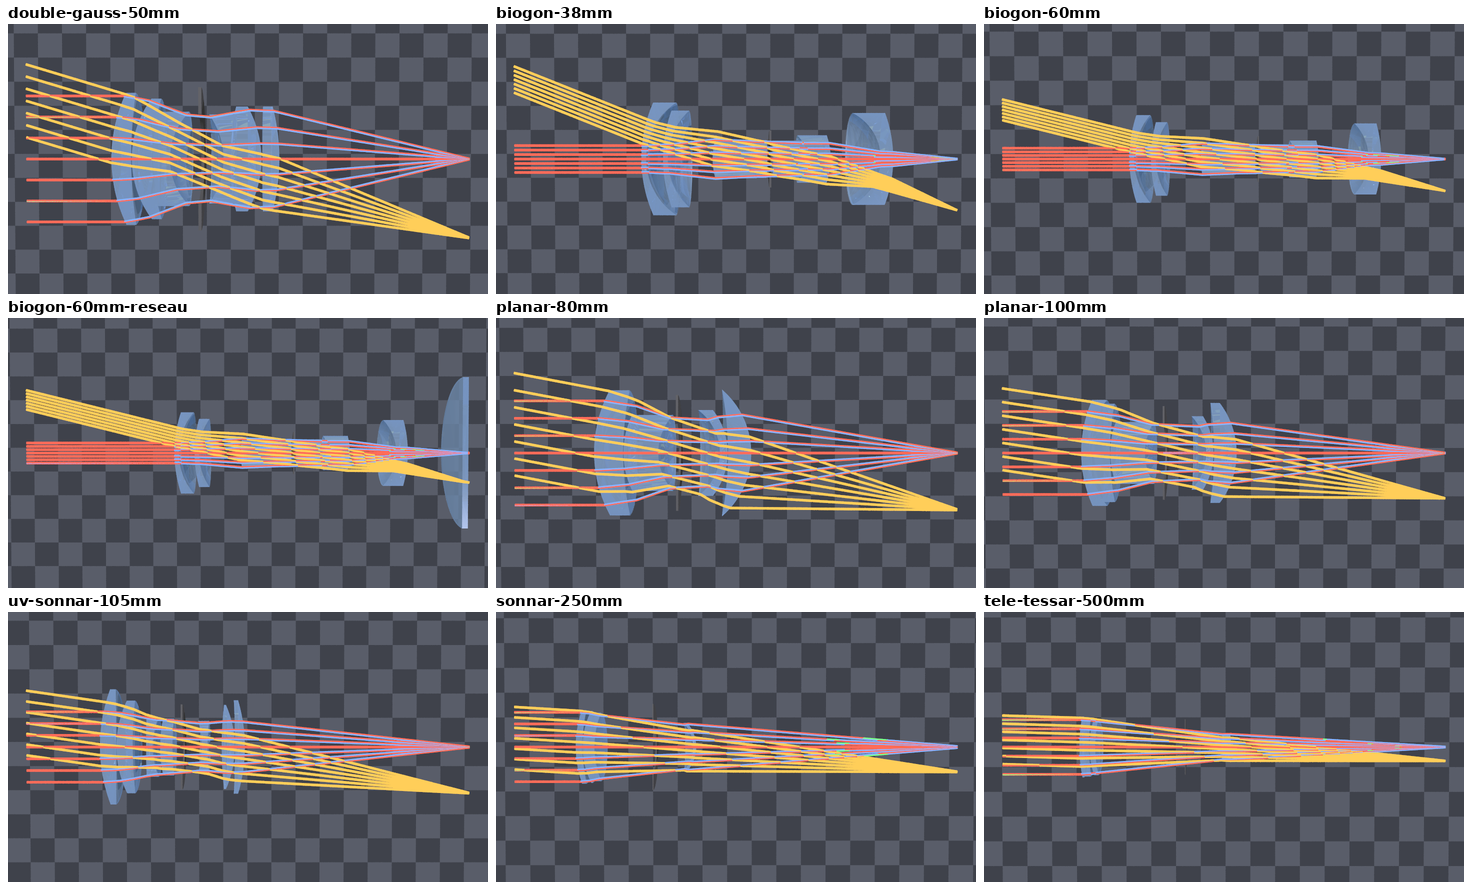
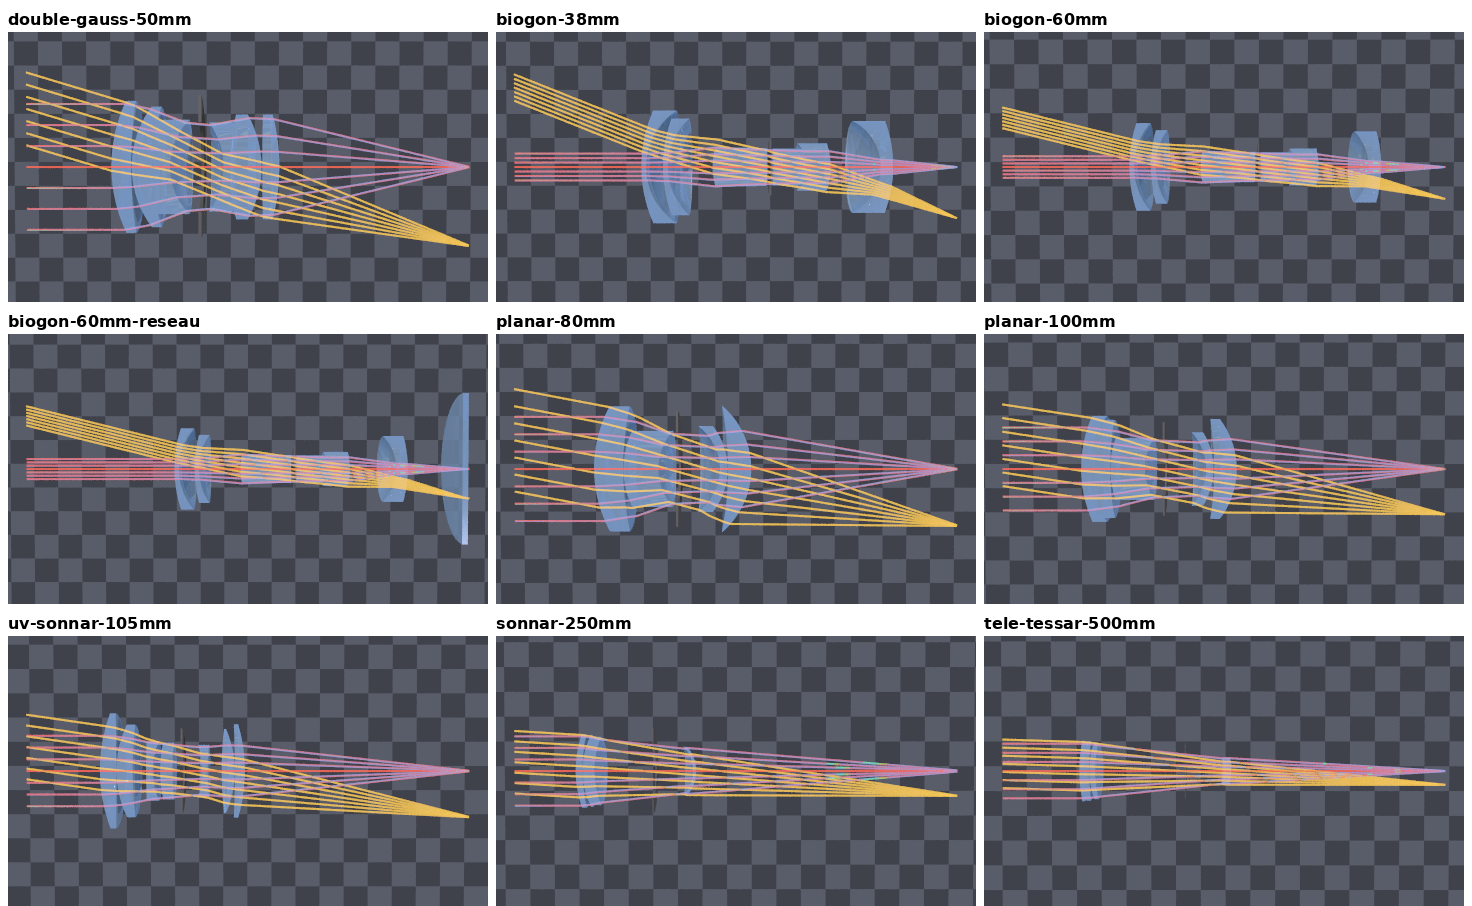
WIP 0.21.3: format_test checks for parts, materialMap, creaseAngle, nodeFrame, uv sampling, include, fanOpacity; lens fans at half brightness

diff --git a/tests/format_test.cpp b/tests/format_test.cpp
@@ -5671,6 +5671,12 @@ static void LensElementsChecks( void )
     ExpectError( Minimal( "{ \"type\": \"sphere\", \"center\": [0, 0, 0], \"radius\": 1 }",
                           "{ \"type\": \"lensElements\", \"prescription\": \"biogon-38mm\", \"scale\": 0 }" ), BAD_FILE, "scale must be more than 0" );
     ExpectError( Minimal( "{ \"type\": \"sphere\", \"center\": [0, 0, 0], \"radius\": 1 }",
+                          "{ \"type\": \"lensElements\", \"prescription\": \"biogon-38mm\", \"fanOpacity\": 0 }" ), BAD_FILE,
+                 "fanOpacity must be more than 0 and at most 1" );
+    ExpectError( Minimal( "{ \"type\": \"sphere\", \"center\": [0, 0, 0], \"radius\": 1 }",
+                          "{ \"type\": \"lensElements\", \"prescription\": \"biogon-38mm\", \"fanOpacity\": 1.5 }" ), BAD_FILE,
+                 "fanOpacity must be more than 0 and at most 1" );
+    ExpectError( Minimal( "{ \"type\": \"sphere\", \"center\": [0, 0, 0], \"radius\": 1 }",
                           "{ \"type\": \"lensElements\", \"prescription\": \"biogon-38mm\", \"fields\": [1.5] }" ), BAD_FILE, "must be from 0 to 1" );
     ExpectError( Minimal( "{ \"type\": \"sphere\", \"center\": [0, 0, 0], \"radius\": 1 }",
                           "{ \"type\": \"lensElements\", \"prescription\": \"biogon-38mm\", \"rays\": 0 }" ), BAD_FILE, "rays" );
@@ -6855,6 +6861,259 @@ static void ImageFormatChecks( const char *strScenes )
     }
 }
 
+    // 2026-alpha-0.21.3: model parts and materialMap, creaseAngle, nodeFrame,
+    // faceColors' "sample": "uv", object names, --save-object and include,
+    // and the LM-5 Eagle model's parts.
+static void ModelPartChecks( const char *strScenes, const char *strDir )
+{
+    std::string             strModels = std::string( strScenes ) + "/models/";
+    RayJson::CBaseDirectory oBase( strScenes );
+    std::string             strError;
+
+    auto Mesh = [ & ]( const std::string &strJson, BOOL &bRead ) -> std::unique_ptr<CMesh>
+    {
+        std::unique_ptr<IASLib::CJsonNode> pNode( RayJson::Parse( strJson ) );
+        std::unique_ptr<CMesh>             pMesh( new CMesh );
+
+        bRead = ( pNode && pMesh->FromJson( *pNode ) ) ? TRUE : FALSE;
+        if ( ! bRead )
+        {
+            strError = RayJson::GetError();
+            RayJson::ClearError();
+        }
+        return pMesh;
+    };
+    BOOL bRead = FALSE;
+
+        // Parts: each face's glTF material, by name.
+    {
+        ModelFile::SModel oModel;
+        std::string       strData = ReadFile( strModels + "apollo/apollo_lunar_module.glb" );
+
+        Check( ModelFile::ReadGltf( strData, NULL, "", "", oModel, strError ) == TRUE, "NASA's LM reads" );
+        Check( oModel.anFacePart.size() == oModel.anFaces.size() / 3 && oModel.astrParts.size() == 12,
+               "each face of the LM has its part, one of its 12 materials" );
+        Check( std::find( oModel.astrParts.begin(), oModel.astrParts.end(), "blinn5SG.002" ) != oModel.astrParts.end(),
+               "the parts are named by the glTF materials" );
+        Check( ! oModel.apImages.empty() && oModel.anFaceImage.size() == oModel.anFaces.size() / 3 &&
+               oModel.anFaceImageUVs.size() == oModel.anFaces.size() * 2, "the base color images and each face's image coordinates are kept" );
+    }
+
+        // A materialMap gives a part its own materials and bump; a name the
+        // model doesn't have is refused, listing the parts.
+    {
+        std::unique_ptr<CMesh> pMesh = Mesh( "{\"file\": \"models/apollo/apollo_lunar_module.glb\", \"materialMap\": {"
+                                             "\"blinn5SG.002\": {\"materials\": [{\"type\": \"diffuse\", \"influence\": 1, \"color\": [1, 0, 0]}],"
+                                             " \"bump\": {\"texture\": {\"type\": \"noise\"}}}}}", bRead );
+        const CMesh::SGeometry *pGeometry = pMesh->GetGeometry();
+        int                     nBell = -1, nOther = -1, nPart = -1;
+        std::vector<std::string> astrParts = pMesh->GetPartNames();
+
+        Check( bRead == TRUE, "a mesh with a materialMap reads" );
+        for ( size_t i = 0; i < astrParts.size(); i++ )
+        {
+            if ( astrParts[ i ] == "blinn5SG.002" )
+                nPart = (int)i;
+        }
+        for ( size_t i = 0; pGeometry && i < pGeometry->anFacePart.size(); i++ )
+        {
+            if ( pGeometry->anFacePart[ i ] == nPart && nBell < 0 )
+                nBell = (int)i;
+            if ( pGeometry->anFacePart[ i ] != nPart && nOther < 0 )
+                nOther = (int)i;
+        }
+        Check( nBell >= 0 && nOther >= 0 && pMesh->FaceHasBump( nBell ) && ! pMesh->FaceHasBump( nOther ),
+               "a part's faces take its entry's bump, the others the mesh's (none)" );
+
+        std::unique_ptr<IASLib::CObjectNode> pOut( new IASLib::CObjectNode );
+
+        pMesh->ToJson( *pOut );
+        Check( pOut->get( "materialMap" ) && pOut->get( "materialMap" )->get( "blinn5SG.002" ), "the materialMap is saved" );
+
+        Mesh( "{\"file\": \"models/apollo/apollo_lunar_module.glb\", \"materialMap\": {\"hull\": {\"materials\": []}}}", bRead );
+        Check( bRead == FALSE && strError.find( "has no part named \"hull\"" ) != std::string::npos &&
+               strError.find( "blinn5SG.002" ) != std::string::npos, "a part the model doesn't have is refused, naming its parts" );
+        Mesh( "{\"vertices\": [[0,0,0],[1,0,0],[0,1,0]], \"faces\": [[0,1,2]], \"materialMap\": {}}", bRead );
+        Check( bRead == FALSE, "a materialMap is for a model file" );
+        Mesh( "{\"file\": \"models/apollo/apollo_lunar_module.glb\", \"materialMap\": {\"blinn5SG.002\": {\"bump\": {}}}}", bRead );
+        Check( bRead == FALSE && strError.find( "needs \"materials\"" ) != std::string::npos, "an entry needs materials" );
+    }
+
+        // creaseAngle: normals worked out from the faces. A cube's corners
+        // stay sharp under 90 degrees and round past it.
+    {
+        std::unique_ptr<CMesh> pSharp = Mesh( "{\"file\": \"models/color_cube.stl\", \"smooth\": true, \"creaseAngle\": 30}", bRead );
+        BOOL                   bSharp = bRead;
+        std::unique_ptr<CMesh> pRound = Mesh( "{\"file\": \"models/color_cube.stl\", \"smooth\": true, \"creaseAngle\": 100}", bRead );
+        BOOL                   bAllFace = TRUE, bAnyBent = FALSE;
+
+        Check( bSharp && bRead, "creaseAngle reads" );
+        const CMesh::SGeometry &oSharp = *pSharp->GetGeometry();
+        const CMesh::SGeometry &oRound = *pRound->GetGeometry();
+
+        for ( int f = 0; f < oSharp.FaceCount(); f++ )
+        {
+            CVector oFace = oSharp.aoFaceNormals[ (size_t)f ];
+
+            for ( int c = 0; c < 3; c++ )
+            {
+                CVector oN = oSharp.aoVertexNormals[ (size_t)oSharp.anKept[ (size_t)f * 3 + c ] ];
+
+                if ( fabs( oN.Dot( oFace ) - 1.0 ) > 1e-9 )
+                    bAllFace = FALSE;
+                oN = oRound.aoVertexNormals[ (size_t)oRound.anKept[ (size_t)f * 3 + c ] ];
+                oFace = oRound.aoFaceNormals[ (size_t)f ];
+                if ( oN.Dot( oFace ) < 0.9 )
+                    bAnyBent = TRUE;
+                oFace = oSharp.aoFaceNormals[ (size_t)f ];
+            }
+        }
+        Check( bAllFace, "under the crease angle a cube's corners keep their faces' normals" );
+        Check( bAnyBent, "past it they are blended with the faces around them" );
+        Mesh( "{\"file\": \"models/color_cube.stl\", \"creaseAngle\": 200}", bRead );
+        Check( bRead == FALSE, "a creaseAngle past 180 is refused" );
+    }
+
+        // nodeFrame: a picked node in its own frame, or where its parents put it.
+    {
+        std::unique_ptr<CMesh> pLocal = Mesh( "{\"file\": \"models/chess/chess_set_1k.gltf\", \"node\": \"piece_rook_white_01\"}", bRead );
+        BOOL                   bLocal = bRead;
+        std::unique_ptr<CMesh> pWorld = Mesh( "{\"file\": \"models/chess/chess_set_1k.gltf\", \"node\": \"piece_rook_white_01\", "
+                                              "\"nodeFrame\": \"world\"}", bRead );
+
+        Check( bLocal && bRead, "nodeFrame reads" );
+        CVector oLocal = pLocal->GetGeometry()->oMinimum, oWorld = pWorld->GetGeometry()->oMinimum;
+
+            // The rook's node moves it by (0.2026, 0.0174, -0.2026); glTF's z
+            // is turned round in Ray.
+        Check( fabs( ( oWorld.GetX() - oLocal.GetX() ) - 0.20260828733444214 ) < 1e-6 &&
+               fabs( ( oWorld.GetY() - oLocal.GetY() ) - 0.017392655834555626 ) < 1e-6 &&
+               fabs( ( oWorld.GetZ() - oLocal.GetZ() ) - 0.20260828733444214 ) < 1e-6,
+               "\"nodeFrame\": \"world\" places a node by its own transform" );
+        Mesh( "{\"file\": \"models/chess/chess_set_1k.gltf\", \"nodeFrame\": \"world\"}", bRead );
+        Check( bRead == FALSE, "nodeFrame needs a node" );
+    }
+
+        // faceColors' "sample": "uv": a face of NASA's LM that has a base
+        // color image samples it through the face's coordinates.
+    {
+        std::unique_ptr<CMesh>  pMesh = Mesh( "{\"file\": \"models/apollo/apollo_lunar_module.glb\"}", bRead );
+        const CMesh::SGeometry &oGeometry = *pMesh->GetGeometry();
+        CRay                    oRay;
+        CVector                 oHit;
+        BOOL                    bFlip = FALSE;
+        int                     nFace = -1;
+
+        for ( size_t i = 0; i < oGeometry.anFaceImage.size() && nFace < 0; i++ )
+        {
+            if ( oGeometry.anFaceImage[ i ] >= 0 )
+                nFace = (int)i;
+        }
+        Check( nFace >= 0, "some of the LM's faces have an image" );
+        if ( nFace < 0 )
+            return;
+
+        CVector oA = oGeometry.aoVertices[ (size_t)oGeometry.anKept[ (size_t)nFace * 3 ] ];
+        CVector oB = oGeometry.aoVertices[ (size_t)oGeometry.anKept[ (size_t)nFace * 3 + 1 ] ];
+        CVector oC = oGeometry.aoVertices[ (size_t)oGeometry.anKept[ (size_t)nFace * 3 + 2 ] ];
+        CVector oN = oGeometry.aoFaceNormals[ (size_t)nFace ];
+        FLT     nX = ( oA.GetX() + oB.GetX() + oC.GetX() ) / 3.0, nY = ( oA.GetY() + oB.GetY() + oC.GetY() ) / 3.0;
+        FLT     nZ = ( oA.GetZ() + oB.GetZ() + oC.GetZ() ) / 3.0;
+
+            // From just off the face's middle, straight at it.
+        oRay.Set( nX + oN.GetX() * 1e-4, nY + oN.GetY() * 1e-4, nZ + oN.GetZ() * 1e-4, -oN.GetX(), -oN.GetY(), -oN.GetZ(), 1e100, 1.0, 0, 0 );
+        Check( pMesh->Intersect( oRay, oHit ) == TRUE, "a ray at that face hits it" );
+
+        CObjects *pFace = pMesh->HitPart( bFlip );
+        CColor    oColor;
+
+        Check( pFace && pFace->SurfaceImageColor( oHit, oColor ) && oColor.GetR() >= 0.0 && oColor.GetR() <= 1.0,
+               "a face with an image samples it at the hit" );
+
+        std::unique_ptr<IASLib::CJsonNode> pNode( RayJson::Parse( "{\"type\": \"faceColors\", \"sample\": \"uv\"}" ) );
+        std::unique_ptr<CTexture>          pTexture( CTexture::Read( *pNode ) );
+        STexturePoint                      oAt;
+
+        pFace->TextureAt( oHit, oAt );
+        Check( pTexture && pTexture->ColorAt( oAt ).GetR() == oColor.GetR(), "faceColors with \"sample\": \"uv\" uses it" );
+        pNode.reset( RayJson::Parse( "{\"type\": \"faceColors\", \"sample\": \"both\"}" ) );
+        pTexture.reset( CTexture::Read( *pNode ) );
+        RayJson::ClearError();
+        Check( ! pTexture, "an unknown sample is refused" );
+    }
+
+        // Object names, --save-object and include.
+    {
+        CScene      oScene;
+        std::string strPrefab = std::string( strDir ) + "/prefab_cube.ray";
+        std::string strUse = std::string( strDir ) + "/use_prefab.ray";
+
+        Check( oScene.Load( ( std::string( strScenes ) + "/models_test.ray" ).c_str() ) == 0, "models_test loads" );
+        Check( oScene.FindObject( "2" ) == 1 && oScene.FindObject( "9" ) == -1, "an object is found by its number" );
+        Check( oScene.SaveObject( 1, strPrefab.c_str(), TRUE ) == 0, "one object saves as a scene of its own" );
+
+        CScene oPrefab;
+
+        Check( oPrefab.Load( strPrefab.c_str() ) == 0 && oPrefab.GetObjectCount() == 1, "the prefab holds just that object" );
+
+        FILE *pFile = fopen( strUse.c_str(), "wb" );
+
+        fputs( "{\"format\": \"Ray scene\", \"version\": 3, \"camera\": {\"position\": [0, 2, -10], \"lookAt\": [0, 0, 0]},"
+               " \"objects\": [{\"type\": \"include\", \"name\": \"cubes\", \"file\": \"prefab_cube.ray\", \"position\": [3, 0, 0]}],"
+               " \"lights\": []}", pFile );
+        fclose( pFile );
+
+        CScene oUse;
+
+        Check( oUse.Load( strUse.c_str() ) == 0 && oUse.GetObjectCount() == 2, "an include brings its object in after it" );
+        if ( oUse.GetObjectCount() == 2 )
+        {
+            CMesh  *pOriginal = dynamic_cast<CMesh *>( oPrefab.GetObjectAt( 0 ) );
+            CMesh  *pPlaced = dynamic_cast<CMesh *>( oUse.GetObjectAt( 1 ) );
+
+            Check( pOriginal && pPlaced && fabs( CVector( pPlaced->GetGeometry()->oMinimum ).GetX() - CVector( pOriginal->GetGeometry()->oMinimum ).GetX() - 3.0 ) < 1e-9,
+                   "the include's position moves what it brings in" );
+            Check( oUse.GetObjectAt( 0 )->GetName() == "cubes" && oUse.FindObject( "cubes" ) == 0, "an object keeps its name" );
+            Check( oUse.SaveObject( 1, strPrefab.c_str(), TRUE ) != 0, "an included object can't be saved alone" );
+        }
+
+        std::string strSaved = oUse.ToJson();
+
+        Check( strSaved.find( "\"include\"" ) != std::string::npos && strSaved.find( "color_cube" ) == std::string::npos &&
+               strSaved.find( "\"name\": \"cubes\"" ) != std::string::npos, "the scene saves the include, not what it brought in" );
+
+        std::string strTask;
+        {
+            RayJson::CEmbedData oEmbed;
+
+            strTask = oUse.ToJson( TRUE );
+        }
+        CScene oTask;
+
+        Check( oTask.FromJson( strTask ) == 0 && oTask.GetObjectCount() == 2, "a task's copy carries the included objects inline" );
+        Check( strTask.find( "\"objects\":[{\"type\":\"mesh\"" ) != std::string::npos, "a task's copy holds the mesh itself" );
+    }
+
+        // The LM-5 Eagle: NASA's model, its parts named.
+    {
+        ModelFile::SModel oModel;
+        std::string       strData = ReadFile( strModels + "apollo/lm5_eagle.glb" );
+        const char       *astrNames[] = { "kapton_blanket", "kapton_gold", "silver_foil", "kapton_mesa", "black_blanket", "dps_bell",
+                                          "porch_aluminum", "inconel_dark", "white_paint", "al2024_anodized", "al5056_anodized",
+                                          "al_olive", "pyromark_black", "window_quartz" };
+        BOOL              bAll = TRUE;
+
+        Check( ModelFile::ReadGltf( strData, NULL, "", "", oModel, strError ) == TRUE, "lm5_eagle.glb reads" );
+        for ( const char *strName : astrNames )
+        {
+            if ( std::find( oModel.astrParts.begin(), oModel.astrParts.end(), strName ) == oModel.astrParts.end() )
+                bAll = FALSE;
+        }
+        Check( bAll && oModel.astrParts.size() == sizeof( astrNames ) / sizeof( astrNames[ 0 ] ), "every Eagle part is there by name" );
+        Check( oModel.aoNormals.size() == oModel.aoVertices.size(), "the Eagle carries its worked-out normals" );
+    }
+}
+
 int main( int argc, char **argv )
 {
     if ( argc >= 4 && strcmp( argv[ 1 ], "--engines" ) == 0 )
@@ -6869,6 +7128,7 @@ int main( int argc, char **argv )
         SceneTreeChecks( argv[ 2 ] );
         LensTableChecks( argv[ 2 ] );
         ModelFileChecks( argv[ 2 ], argv[ 3 ] );
+        ModelPartChecks( argv[ 2 ], argv[ 3 ] );
         DracoChecks( argv[ 2 ] );
         BlendChecks( argv[ 2 ] );
         TextChecks( argv[ 2 ] );

diff --git a/core/src/LensElements.cpp b/core/src/LensElements.cpp
@@ -73,6 +73,7 @@ CLensElements::CLensElements( void ) :
     m_bFans( TRUE ),
     m_nRays( 7 ),
     m_nTubeRadius( 0.25 ),
+    m_nFanOpacity( 0.5 ),
     m_nLead( 0.0 ),
     m_nSensorWidth( 0.0 ),
     m_nElements( 0 ),
@@ -342,11 +343,17 @@ BOOL CLensElements::Build( std::string &strError )
                     CVector        oColor( aoColors[ nColor ] );
                     std::string    strColor = Rgb( oColor.GetX(), oColor.GetY(), oColor.GetZ() );
 
+                    std::string strMaterials = "[{\"type\": \"ambient\", \"influence\": " + Number( m_nFanOpacity ) +
+                                               ", \"color\": " + strColor + "}";
+
+                    if ( m_nFanOpacity < 1.0 )
+                        strMaterials += ", {\"type\": \"transparent\", \"influence\": " + Number( 1.0 - m_nFanOpacity ) +
+                                        ", \"color\": [1, 1, 1], \"indexOfRefraction\": 1}";
+                    strMaterials += "]";
                     astrParts.push_back( "{\"type\": \"sweep\", \"path\": [" + strPath + "], \"radius\": " +
                                          Number( m_nTubeRadius * m_nScale ) +
                                          ", \"segments\": 8, \"smooth\": false, \"capped\": true, \"color\": " + strColor +
-                                         ", \"materials\": [{\"type\": \"ambient\", \"influence\": 1, \"color\": " + strColor +
-                                         "}]}" );
+                                         ", \"materials\": " + strMaterials + "}" );
                     m_aaoRayPaths.push_back( aoPath );
                     m_nRayCount++;
                 }
@@ -526,6 +533,7 @@ void CLensElements::ToJson( IASLib::CObjectNode &oNode )
     for ( size_t nIndex = 0; nIndex < m_anFields.size(); nIndex++ )
         pFields->add( (double)m_anFields[ nIndex ] );
     RayJson::PutNumber( oNode, "tubeRadius", m_nTubeRadius );
+    RayJson::PutNumber( oNode, "fanOpacity", m_nFanOpacity );
     if ( m_nLead > 0.0 )
         RayJson::PutNumber( oNode, "lead", m_nLead );
     if ( m_nSensorWidth > 0.0 )
@@ -535,7 +543,7 @@ void CLensElements::ToJson( IASLib::CObjectNode &oNode )
 BOOL CLensElements::FromJson( const IASLib::CJsonNode &oNode )
 {
     static const char *const astrFields[] = { "prescription", "fNumber", "scale", "position", "rotation", "cutaway", "barrel",
-                                              "fans", "rays", "fields", "tubeRadius", "lead", "sensorWidth", NULL };
+                                              "fans", "rays", "fields", "tubeRadius", "fanOpacity", "lead", "sensorWidth", NULL };
 
     Clear();
     if ( ! RayJson::OnlyFields( oNode, astrFields ) ||
@@ -549,6 +557,7 @@ BOOL CLensElements::FromJson( const IASLib::CJsonNode &oNode )
          ! RayJson::GetBool( oNode, "fans", m_bFans, FALSE ) ||
          ! RayJson::GetInt( oNode, "rays", m_nRays, 1, 64, FALSE ) ||
          ! RayJson::GetNumber( oNode, "tubeRadius", m_nTubeRadius, FALSE ) ||
+         ! RayJson::GetNumber( oNode, "fanOpacity", m_nFanOpacity, FALSE ) ||
          ! RayJson::GetNumber( oNode, "lead", m_nLead, FALSE ) ||
          ! RayJson::GetNumber( oNode, "sensorWidth", m_nSensorWidth, FALSE ) )
         return FALSE;
@@ -558,6 +567,8 @@ BOOL CLensElements::FromJson( const IASLib::CJsonNode &oNode )
         return RayJson::Fail( "scale must be more than 0" );
     if ( ! ( m_nTubeRadius > 0.0 ) )
         return RayJson::Fail( "tubeRadius must be more than 0" );
+    if ( ! ( m_nFanOpacity > 0.0 ) || m_nFanOpacity > 1.0 )
+        return RayJson::Fail( "fanOpacity must be more than 0 and at most 1" );
     if ( m_nLead < 0.0 || m_nSensorWidth < 0.0 )
         return RayJson::Fail( "lead and sensorWidth can't be less than 0" );
 

diff --git a/core/include/LensElements.h b/core/include/LensElements.h
@@ -22,9 +22,11 @@
 *   of the front element the lens lets through, in the plane x = 0 (the  *
 *   meridional plane). The on-axis fan is traced in red, green and blue  *
 *   (the C, d and F lines), so its colors part near the focus; each      *
-*   other fan in one color. Each ray is a thin tube (a sweep) with an    *
-*   ambient-only material, so it shows bright and unlit, set just in     *
-*   front of the cut face.                                               *
+*   other fan in one color. Each ray is a thin tube (a sweep) that       *
+*   glows with an ambient material at "fanOpacity" (default 0.5) of its  *
+*   color and lets the rest of the light through (a transparent          *
+*   material of index 1, which doesn't bend it), so the glass shows      *
+*   through the fans; set just in front of the cut face.                 *
 *                                                                        *
 *   The lens is built in its own frame, in mm: the axis along +z (light  *
 *   travels toward +z), the front vertex at z = 0, +y up. It is placed   *
@@ -62,6 +64,7 @@ class CLensElements : public CObjects
         int                     m_nRays;            // rays in each fan
         std::vector<FLT>        m_anFields;         // field fractions
         FLT                     m_nTubeRadius;      // mm
+        FLT                     m_nFanOpacity;      // how much of a ray tube glows (the rest lets light through)
         FLT                     m_nLead;            // mm of ray in front of the lens; 0: half the lens's length
         FLT                     m_nSensorWidth;     // mm, for the field's size; 0: 36 x 24 mm
 

diff --git a/tools/make_lens_cutaways.py b/tools/make_lens_cutaways.py
@@ -69,7 +69,7 @@ def scene(name, surfaces, size, sampler, fields):
         "objects": [
             {"type": "lensElements", "prescription": name, "scale": scale, "position": [0.0, 0.0, 0.0],
              "rotation": [180.0, -90.0, 0.0], "cutaway": True, "barrel": False, "fans": True, "rays": 7,
-             "fields": fields, "tubeRadius": round(0.035 / scale, 6)},
+             "fields": fields, "tubeRadius": round(0.028 / scale, 6), "fanOpacity": 0.5},
             {"type": "plane", "position": [0.0, 0.0, widest * scale + 8.0], "normal": [0.0, 0.0, -1.0],
              "color": [0.5, 0.5, 0.5],
              # Lit by nothing (ambient only), so the lens casts no shadow on it.
